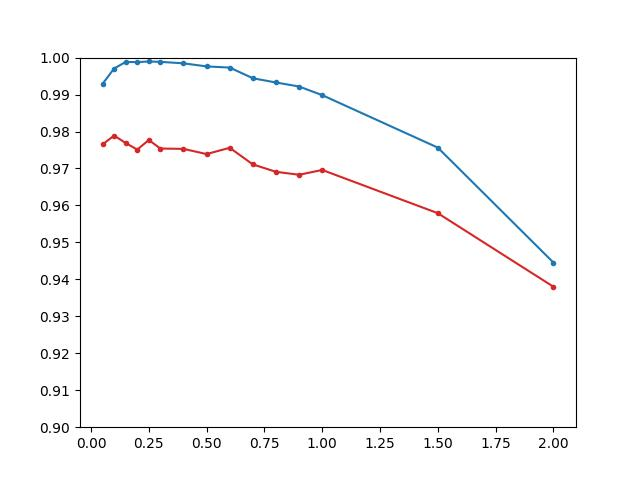
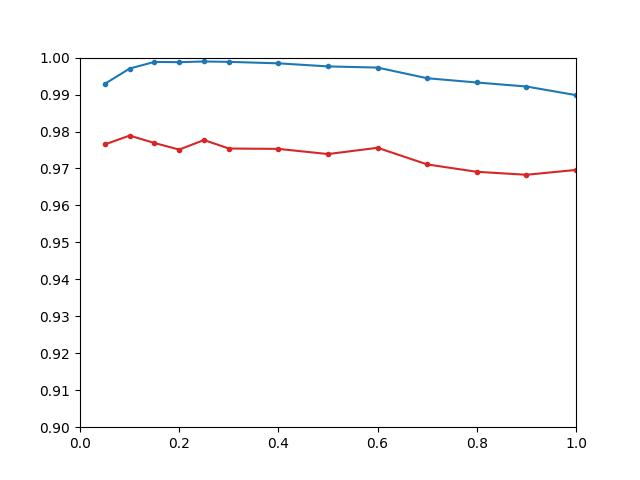
added txt output in plots/acc_alpha

diff --git a/plot_param.py b/plot_param.py
@@ -1,6 +1,7 @@
 import numpy as np
 import matplotlib.pyplot as plt
 from pathlib import Path
+import pandas as pd
 import argparse
 
 result_path = Path("/home/wuys/wys/snn/results")
@@ -13,17 +14,22 @@ plot_path = Path("/home/wuys/wys/snn/plots")
 # args = parser.parse_args()
 
 # specify the name of surrogate function
-surrogate_name = "sigmoid"
+surrogate_name = "soft_sign"
 
 path = Path(result_path / surrogate_name)
 
 # specify the list of alpha values
-# alpha_list = [0.05, 0.1, 0.15, 0.2, 0.25, 0.3, 0.4, 0.5, 0.6, 0.7, 0.8, 0.9, 1.0, 1.5, 2.0] # for piecewise_quad
+if surrogate_name == "power":
+  alpha_list = [0.1, 0.2, 0.25, 0.3, 0.4, 0.5, 0.6, 0.7, 0.75, 0.8, 0.9] # for power
+elif surrogate_name == "piecewise_quad":
+  alpha_list = [0.05, 0.1, 0.15, 0.2, 0.25, 0.3, 0.4, 0.5, 0.6, 0.7, 0.8, 0.9, 1.0, 1.5, 2.0] # for piecewise_quad
+elif surrogate_name == "trigono":
+  alpha_list = [0.25, 0.5, 1.0, 1.5, 2.0, 2.5, 3.0, 4.0, 5.0, 6.0, 7.0, 8.0, 9.0, 10.0] # for trigono
+elif surrogate_name == "sigmoid":
+  alpha_list = [0.5, 1.0, 2.0, 5.0] # for sigmoid
+else:
+  alpha_list = [0.25, 0.5, 0.75, 1.0, 1.5, 2.0, 2.5, 3.0, 4.0, 5.0] # for others
 
-# alpha_list = [0.25, 0.5, 0.75] # for power
-alpha_list = [0.25, 0.5, 1.0, 2.0, 4.0] # for trigono
-alpha_list = [0.5, 1.0, 2.0, 5.0] # for sigmoid
-# alpha_list = [0.25, 0.5, 0.75, 1.0, 1.5, 2.0, 2.5, 3.0, 4.0, 5.0] # for others
 test_acc_list = []
 train_acc_list = []
 
@@ -34,15 +40,17 @@ for alpha in alpha_list:
   train_acc_list.append(d['train_acc'][-1])
   test_acc_list.append(d["test_acc"][-1])
 
+df = pd.DataFrame({'alpha': alpha_list, 'train_acc': train_acc_list, 'test_acc': test_acc_list})
 
 plt.plot(alpha_list, train_acc_list, color='tab:blue', marker='.')
 plt.plot(alpha_list, test_acc_list, color='tab:red', marker='.')
 
 plt.yticks(np.arange(0.9, 1.01, 0.01))
 plt.ylim([0.9, 1.0])
-plt.xlim([0.0, 5.0])
+plt.xlim([0.0, 1.0])
 
 plt.savefig(plot_path / "acc_alpha" / "{}.jpg".format(surrogate_name))
+df.to_csv(plot_path / "acc_alpha" / "{}.csv".format(surrogate_name))
 
 
 # alpha = args.alpha
